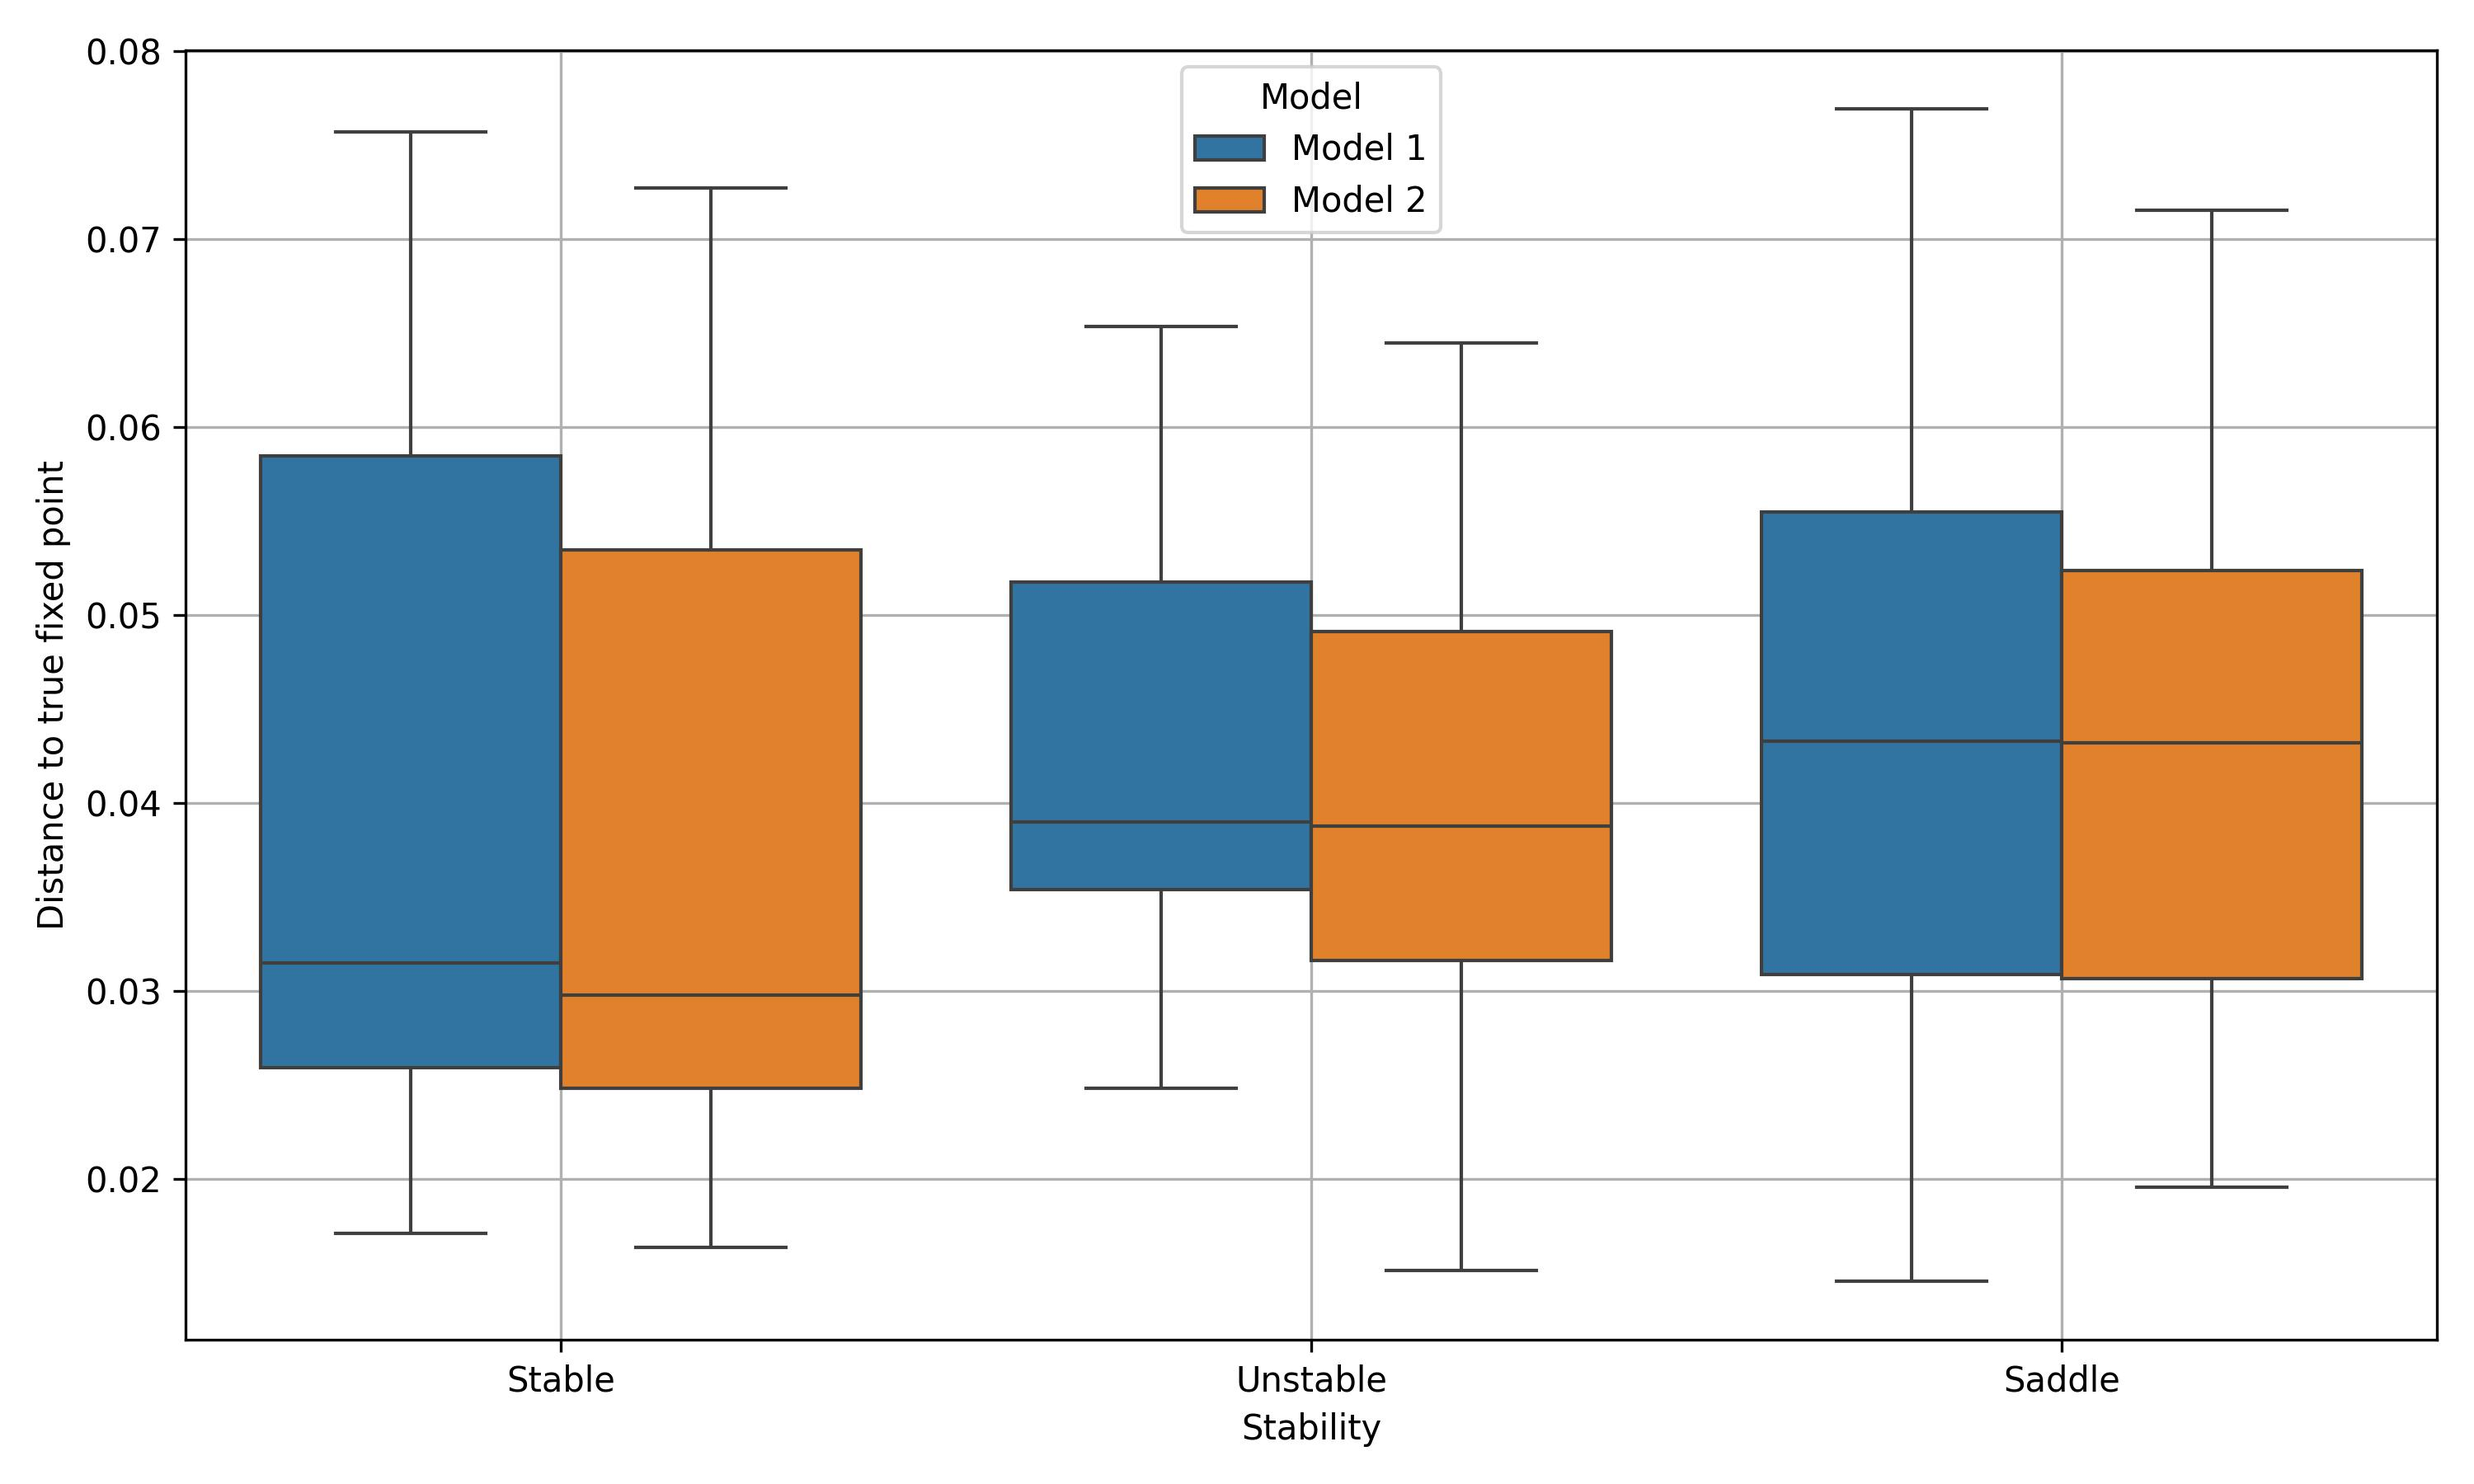
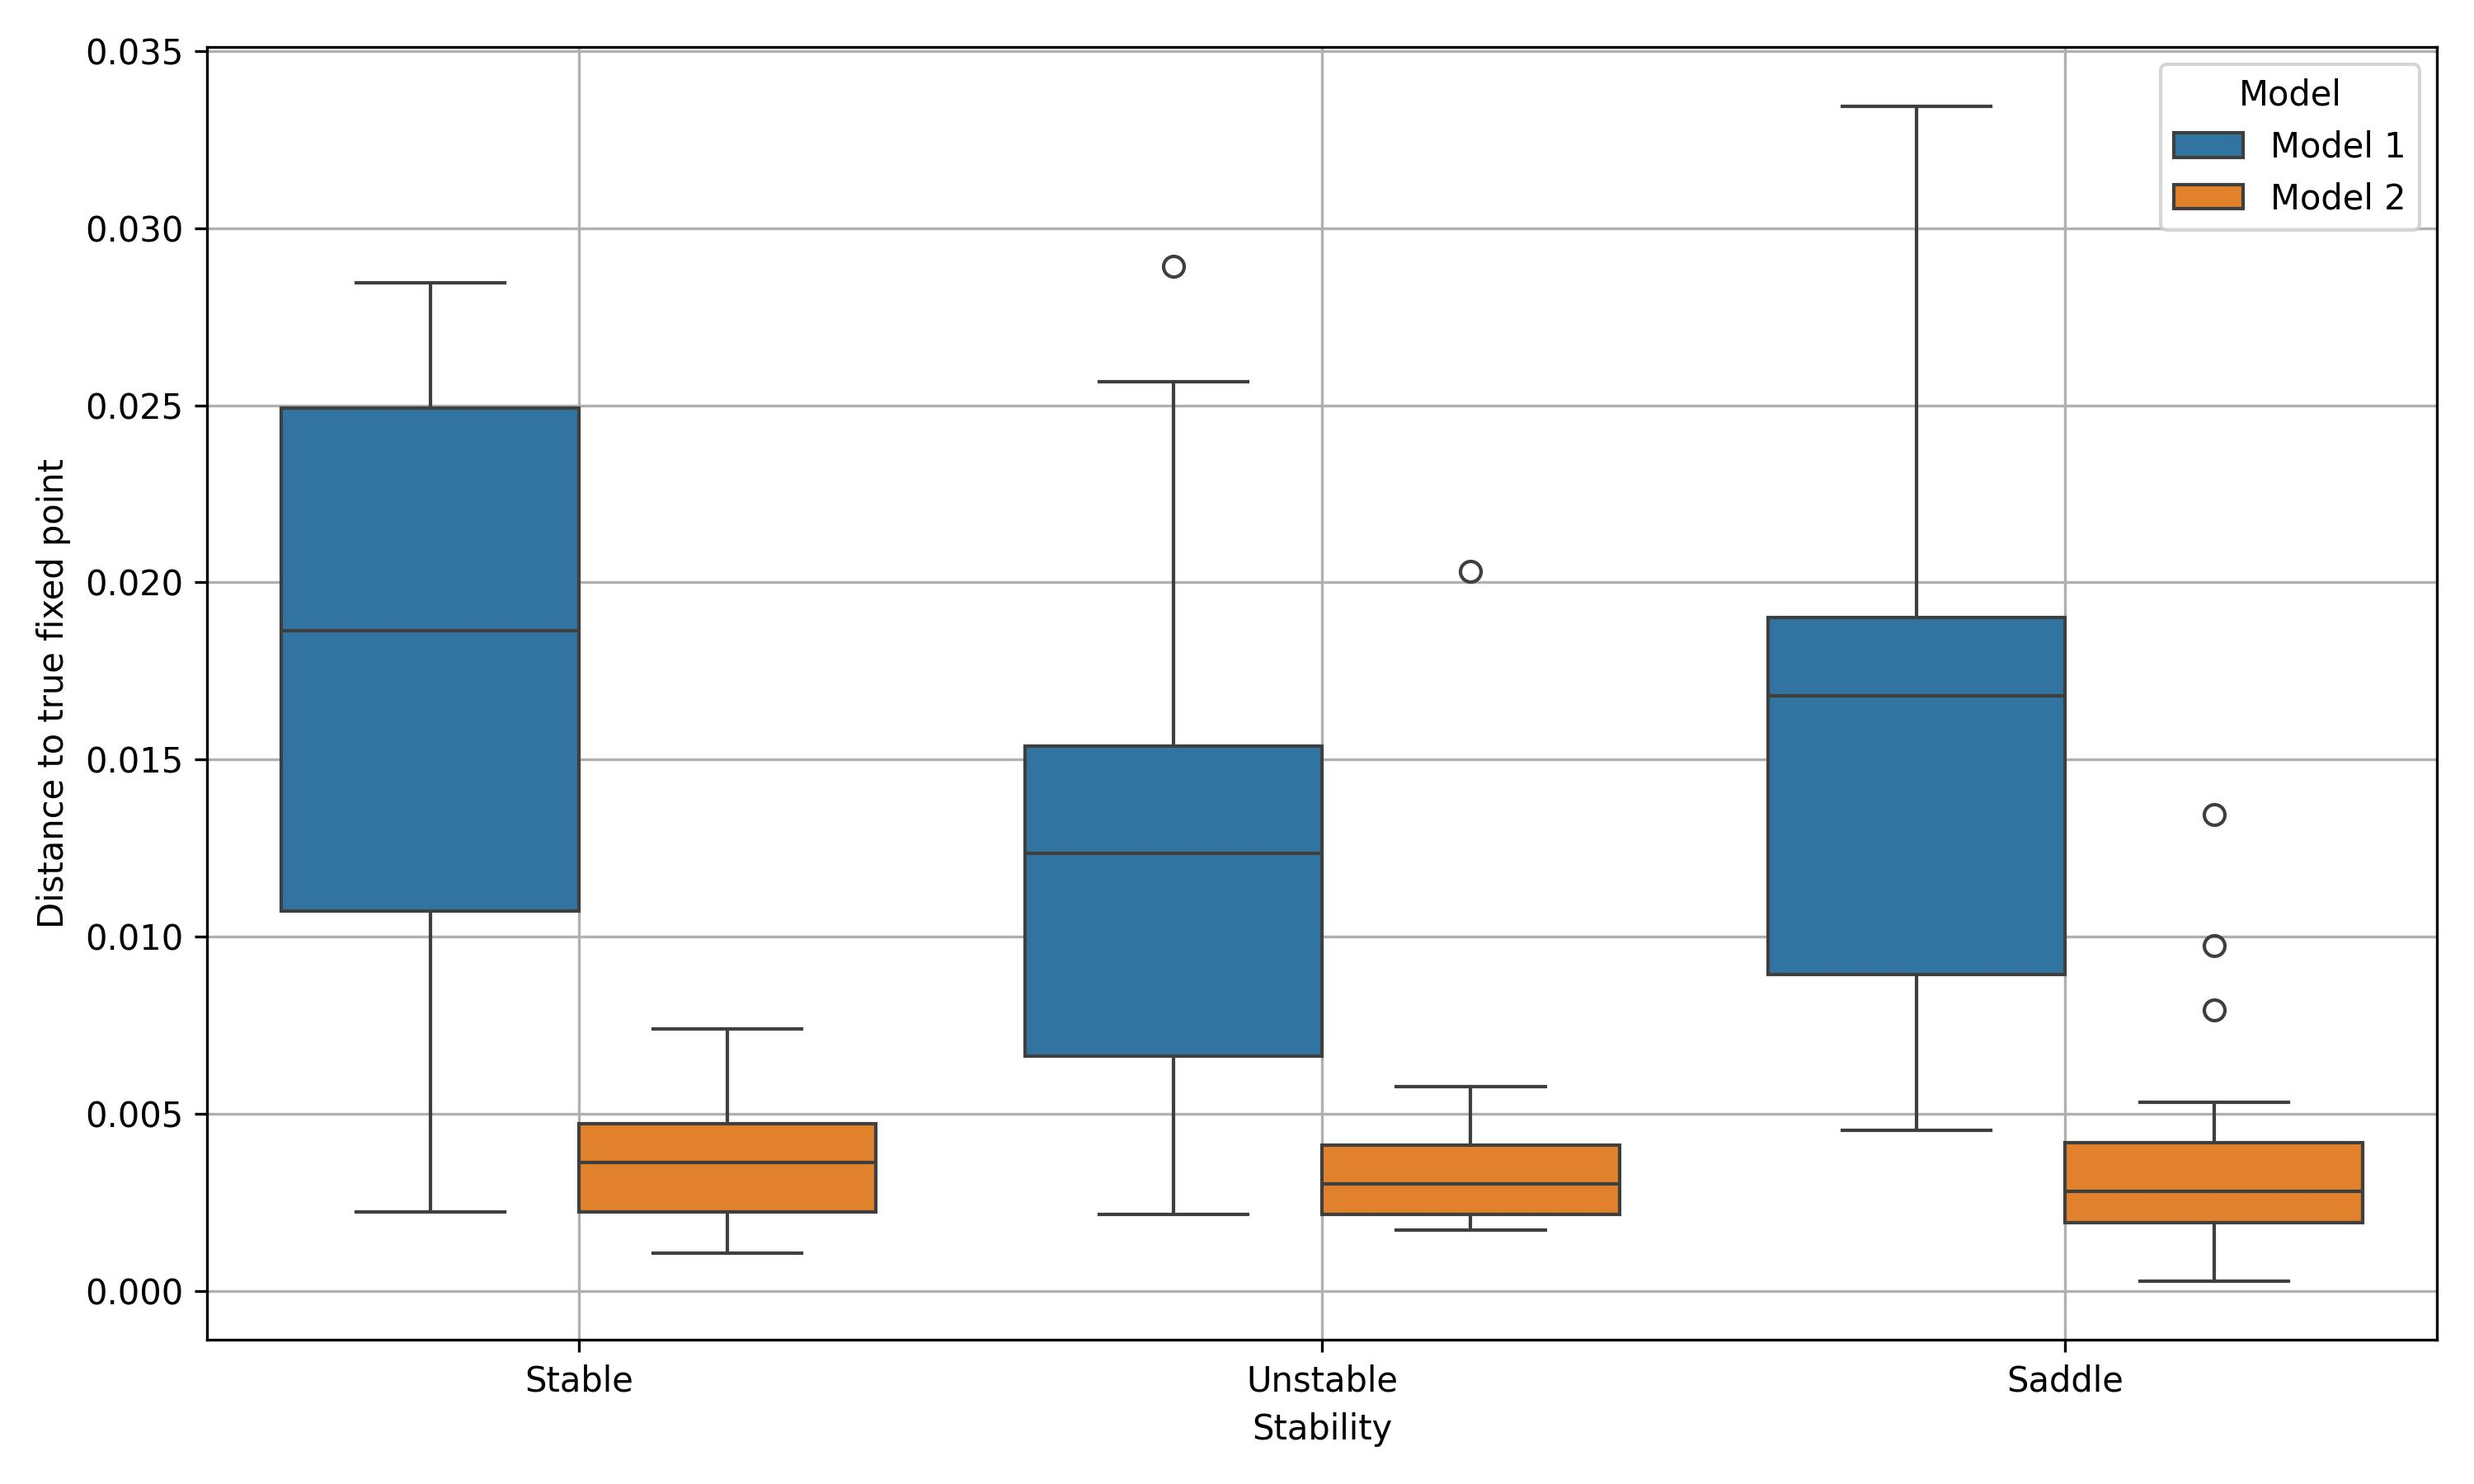
linear

diff --git a/linear_fixed_points.py b/linear_fixed_points.py
@@ -53,10 +53,10 @@ def true_phase_portrait_A(A, ax=None):
         ax.set_ylim([-1.5, 1.5])
         ax.set_title("Reference")
 
-n_points = 50 #00
-n_epochs = 10 #000
+n_points = 1024
+n_epochs = 1024
 
-T_MAX = 3.
+T_MAX = 2.
 #A = np.array([[1, 1], [-1, 1]])
 #c_is = [[-0.5,-0.5], [-0.5,0.5], [0.5,-0.5], [0.5,0.5]]
 
